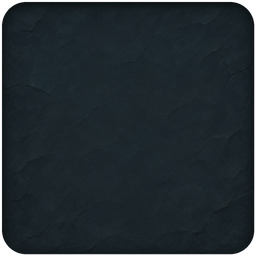
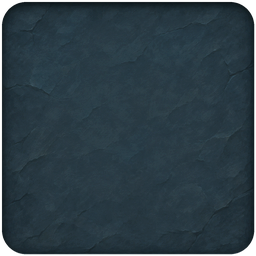
Readiness assets: play-field frame, registered open/closed chamber doors, temple gate; WebP for large pictures; reproducible asset script
Claude-Session: https://claude.ai/code/session_01MmrwsqZH24C7z4SKLhmWCL

diff --git a/src/client/textures.ts b/src/client/textures.ts
@@ -17,10 +17,12 @@ export const REFERENCE_ART: Record<number, string> = Object.fromEntries(
 
 export function preloadReferenceArt(scene: Phaser.Scene): void {
   for (const [id, url] of Object.entries(REFERENCE_ART)) scene.load.image(symbolKey(Number(id)), url);
-  for (const k of ['bg_portrait', 'bg_landscape', 'bgfs_portrait', 'bgfs_landscape']) scene.load.image(k, `${k}.jpg`);
-  scene.load.image('logo', 'logo.png');
+  for (const k of ['bg_portrait', 'bg_landscape', 'bgfs_portrait', 'bgfs_landscape']) scene.load.image(k, `${k}.webp`);
+  scene.load.image('logo', 'logo.webp');
   for (let i = 1; i <= 5; i++) scene.load.image(`station${i}`, `ui/station${i}.png`);
-  for (const k of ['tile', 'spin', 'treasure', 'door_sun', 'door_jade', 'door_moon']) scene.load.image(k, `ui/${k}.png`);
+  for (const k of ['tile', 'spin']) scene.load.image(k, `ui/${k}.png`);
+  for (const k of ['treasure', 'frame', 'gate', 'door_sun', 'door_jade', 'door_moon', 'door_sun_open', 'door_jade_open', 'door_moon_open']) scene.load.image(k, `ui/${k}.webp`);
+  scene.load.json('frameMeta', 'ui/frame.json');
 }
 
 export function createPlaceholderTextures(scene: Phaser.Scene): void {

diff --git a/tools/assets/process.py b/tools/assets/process.py
@@ -49,9 +49,33 @@ for i, n in enumerate(symbols):
 for i, n in enumerate(['st1_discovery', 'st2_treasure', 'st3_ancient', 'st4_relic', 'st5_temple']):
     fit_square(cutout(RAW + n + '.png'), 192, 0.98).save(f'public/ui/station{i + 1}.png', optimize=True)
 
+# Chamber doors: closed (v2) and open versions share one canvas so they register exactly when cross-faded.
 for n in ['door_sun', 'door_jade', 'door_moon']:
-    im = cutout(RAW + n + '.png'); im = im.crop(im.getbbox())
-    im.thumbnail((360, 480), Image.LANCZOS); im.save(f'public/ui/{n}.png', optimize=True)
+    closed = cutout(RAW + n + '_v2.png'); opened = cutout(RAW + n + '_open.png')
+    box = closed.getbbox(); ob = opened.getbbox()
+    box = (min(box[0], ob[0]), min(box[1], ob[1]), max(box[2], ob[2]), max(box[3], ob[3]))
+    for im, suffix in ((closed, ''), (opened, '_open')):
+        im = im.crop(box); im.thumbnail((450, 600), Image.LANCZOS)
+        im.save(f'public/ui/{n}{suffix}.png', optimize=True)
+
+# Frame around the play field: the flat inside is cut out from the centre; the opening's box is written
+# to public/ui/frame.json so the client can align the opening with the 6x5 grid.
+import json
+fr = Image.open(RAW + 'frame.png').convert('RGB')
+work = fr.copy(); cx, cy = fr.width // 2, fr.height // 2
+ImageDraw.floodfill(work, (cx, cy), MAGIC, thresh=40)
+hole = ImageChops.difference(work, Image.new('RGB', fr.size, MAGIC)).convert('L').point(lambda v: 0 if v > 0 else 255)
+hb = hole.getbbox()
+outer = cutout(RAW + 'frame.png')
+alpha = ImageChops.multiply(outer.getchannel('A'), hole.point(lambda v: 255 - v).filter(ImageFilter.GaussianBlur(1.0)))
+fr = fr.convert('RGBA'); fr.putalpha(alpha)
+ob = fr.getbbox(); fr = fr.crop(ob)
+scale = 1100 / fr.width
+fr = fr.resize((1100, round(fr.height * scale)), Image.LANCZOS)
+fr.save('public/ui/frame.png', optimize=True)
+json.dump({'w': fr.width, 'h': fr.height, 'hole': [round((hb[0] - ob[0]) * scale), round((hb[1] - ob[1]) * scale), round((hb[2] - ob[0]) * scale), round((hb[3] - ob[1]) * scale)]}, open('public/ui/frame.json', 'w'))
+
+fit_square(cutout(RAW + 'gate_open.png', 30), 512, 0.98).save('public/ui/gate.png', optimize=True)
 
 fit_square(cutout(RAW + 'treasure.png', 30), 320, 0.98).save('public/ui/treasure.png', optimize=True)
 fit_square(cutout(RAW + 'spin.png'), 256, 0.98).save('public/ui/spin.png', optimize=True)
@@ -60,8 +84,25 @@ tile = Image.open(RAW + 'tile.png').convert('RGB')
 w, h = tile.size; c = int(min(w, h) * 0.04)
 tile = tile.crop((c, c, w - c, h - c)).resize((256, 256), Image.LANCZOS).convert('RGBA')
 m = Image.new('L', (1024, 1024), 0); ImageDraw.Draw(m).rounded_rectangle((8, 8, 1016, 1016), 96, fill=255)
-tile.putalpha(m.resize((256, 256), Image.LANCZOS)); tile.save('public/ui/tile.png', optimize=True)
+from PIL import ImageEnhance
+rgb = ImageEnhance.Contrast(ImageEnhance.Brightness(tile.convert('RGB')).enhance(1.55)).enhance(1.12).convert('RGBA')  # lighter slab so symbols sit on a visible tile
+rgb.putalpha(m.resize((256, 256), Image.LANCZOS)); rgb.save('public/ui/tile.png', optimize=True)
 
-for n in ['portrait', 'landscape']:
-    Image.open(RAW + f'bgfs_{n}.png').convert('RGB').save(f'public/bgfs_{n}.jpg', quality=86, optimize=True)
+# Large pictures are stored as WebP only (smaller download; all current browsers including Safari 14+ read WebP).
+import os
+for n in ['bg_portrait', 'bg_landscape', 'bgfs_portrait', 'bgfs_landscape']:
+    Image.open(RAW + n + '.png').convert('RGB').save(f'public/{n}.webp', quality=80, method=6)
+    if os.path.exists(f'public/{n}.jpg'): os.remove(f'public/{n}.jpg')
+for n in ['frame', 'gate', 'treasure', 'door_sun', 'door_jade', 'door_moon', 'door_sun_open', 'door_jade_open', 'door_moon_open']:
+    Image.open(f'public/ui/{n}.png').save(f'public/ui/{n}.webp', quality=86, method=6)
+    os.remove(f'public/ui/{n}.png')
+
+# Logo: dark background made transparent by brightness, cropped, 720 px wide.
+lg = Image.open(RAW + 'logo_b.png').convert('RGB')
+al = lg.convert('L').point(lambda v: 0)  # placeholder, replaced below
+r, g, b2 = lg.split()
+mx = ImageChops.lighter(ImageChops.lighter(r, g), b2)
+al = mx.point(lambda v: max(0, min(255, round((v - 44) / 50 * 255))))
+lg = lg.convert('RGBA'); lg.putalpha(al); lg = lg.crop(lg.getbbox()); lg.thumbnail((720, 720), Image.LANCZOS)
+lg.save('public/logo.webp', quality=90, method=6)
 print('done')
